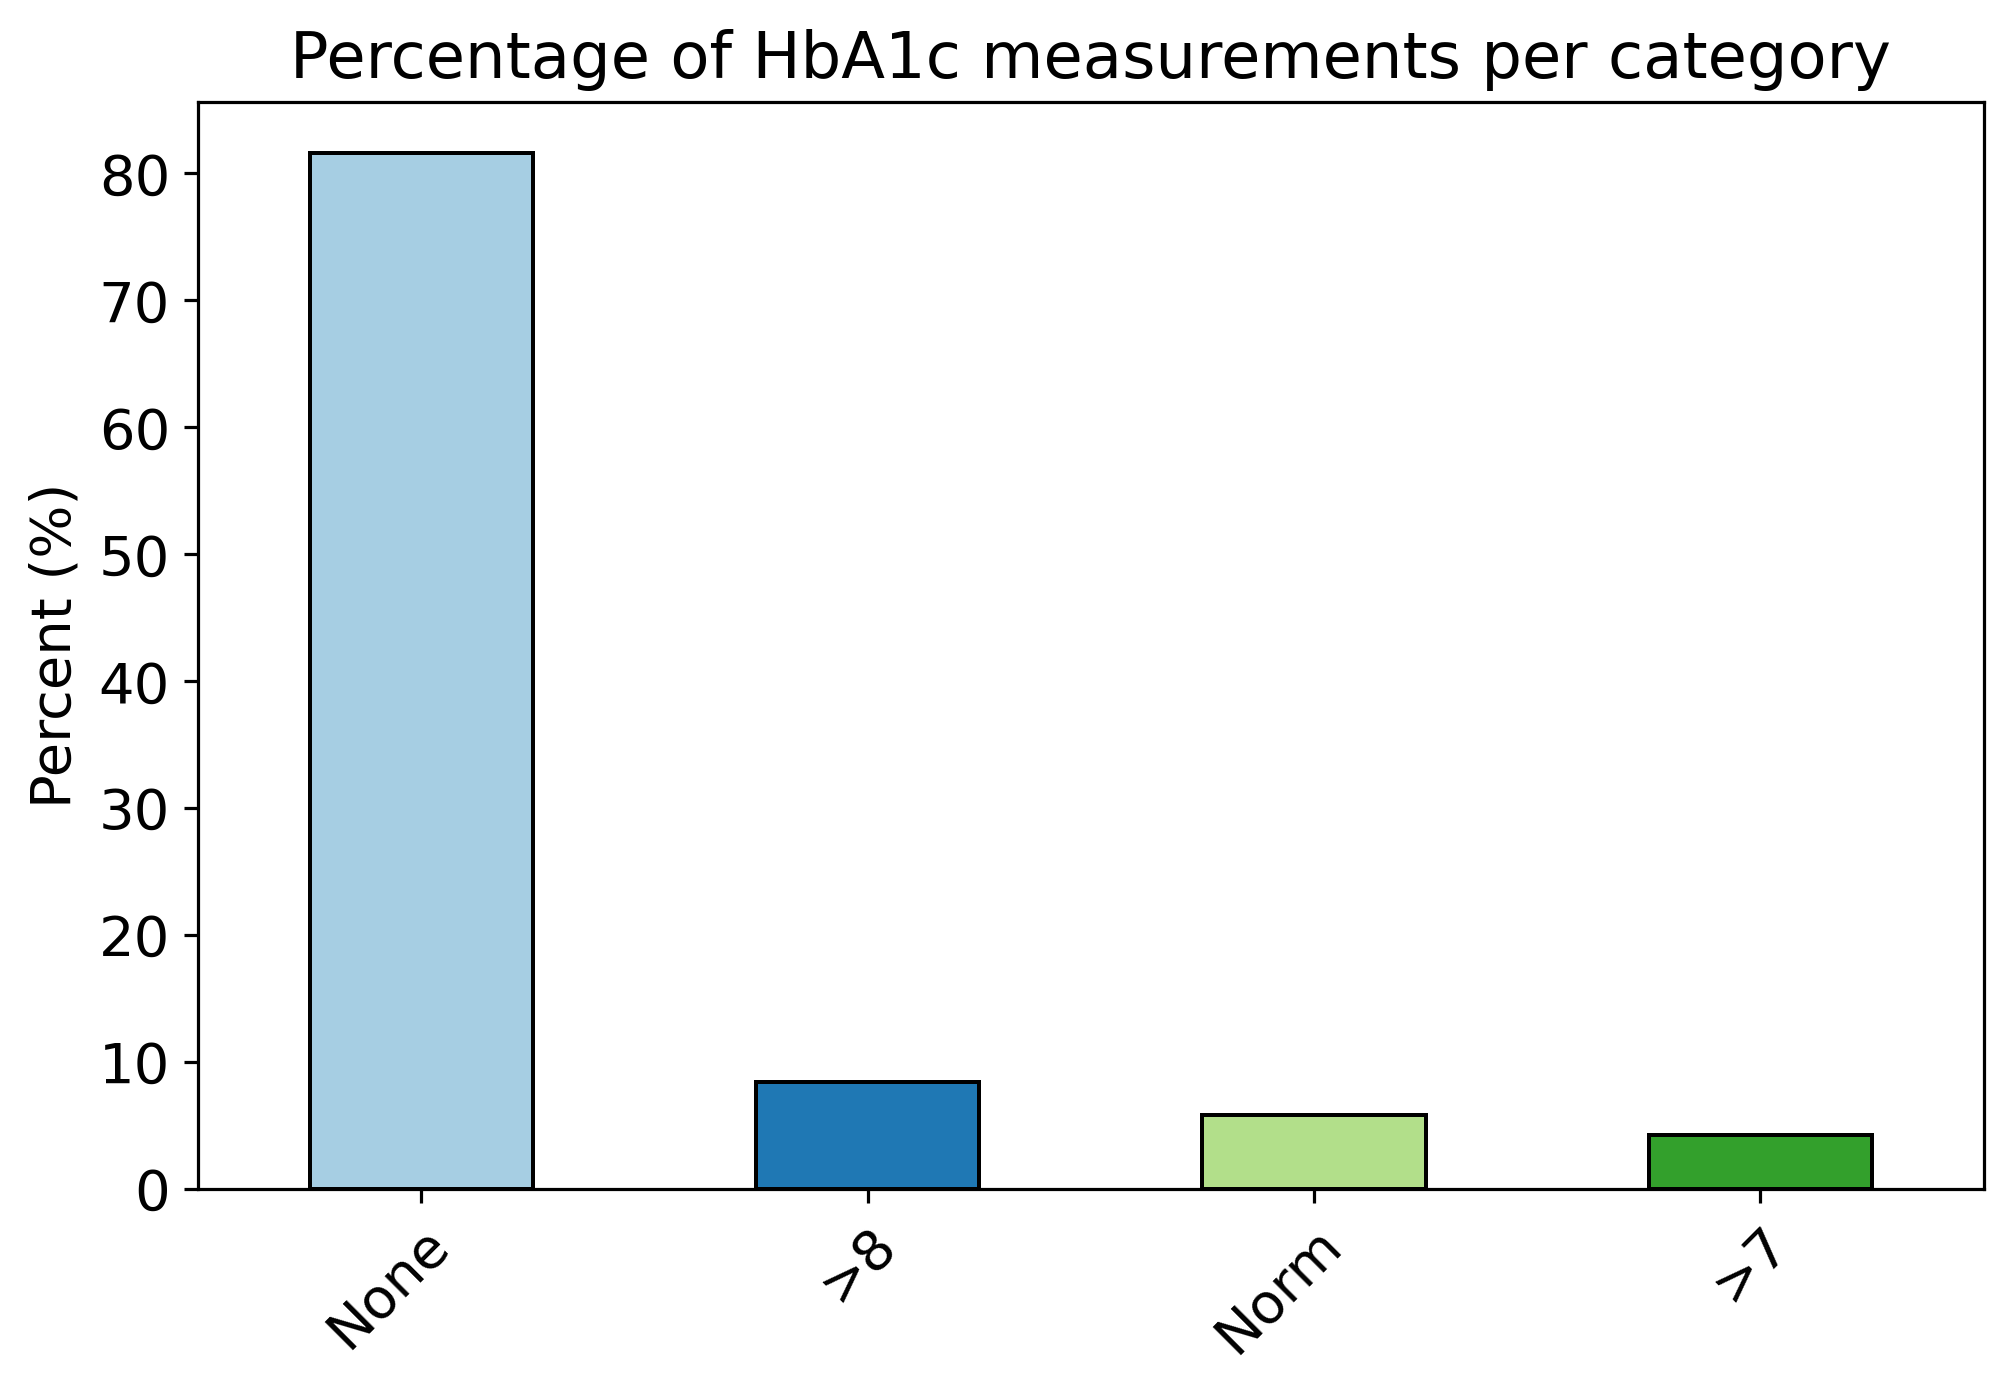
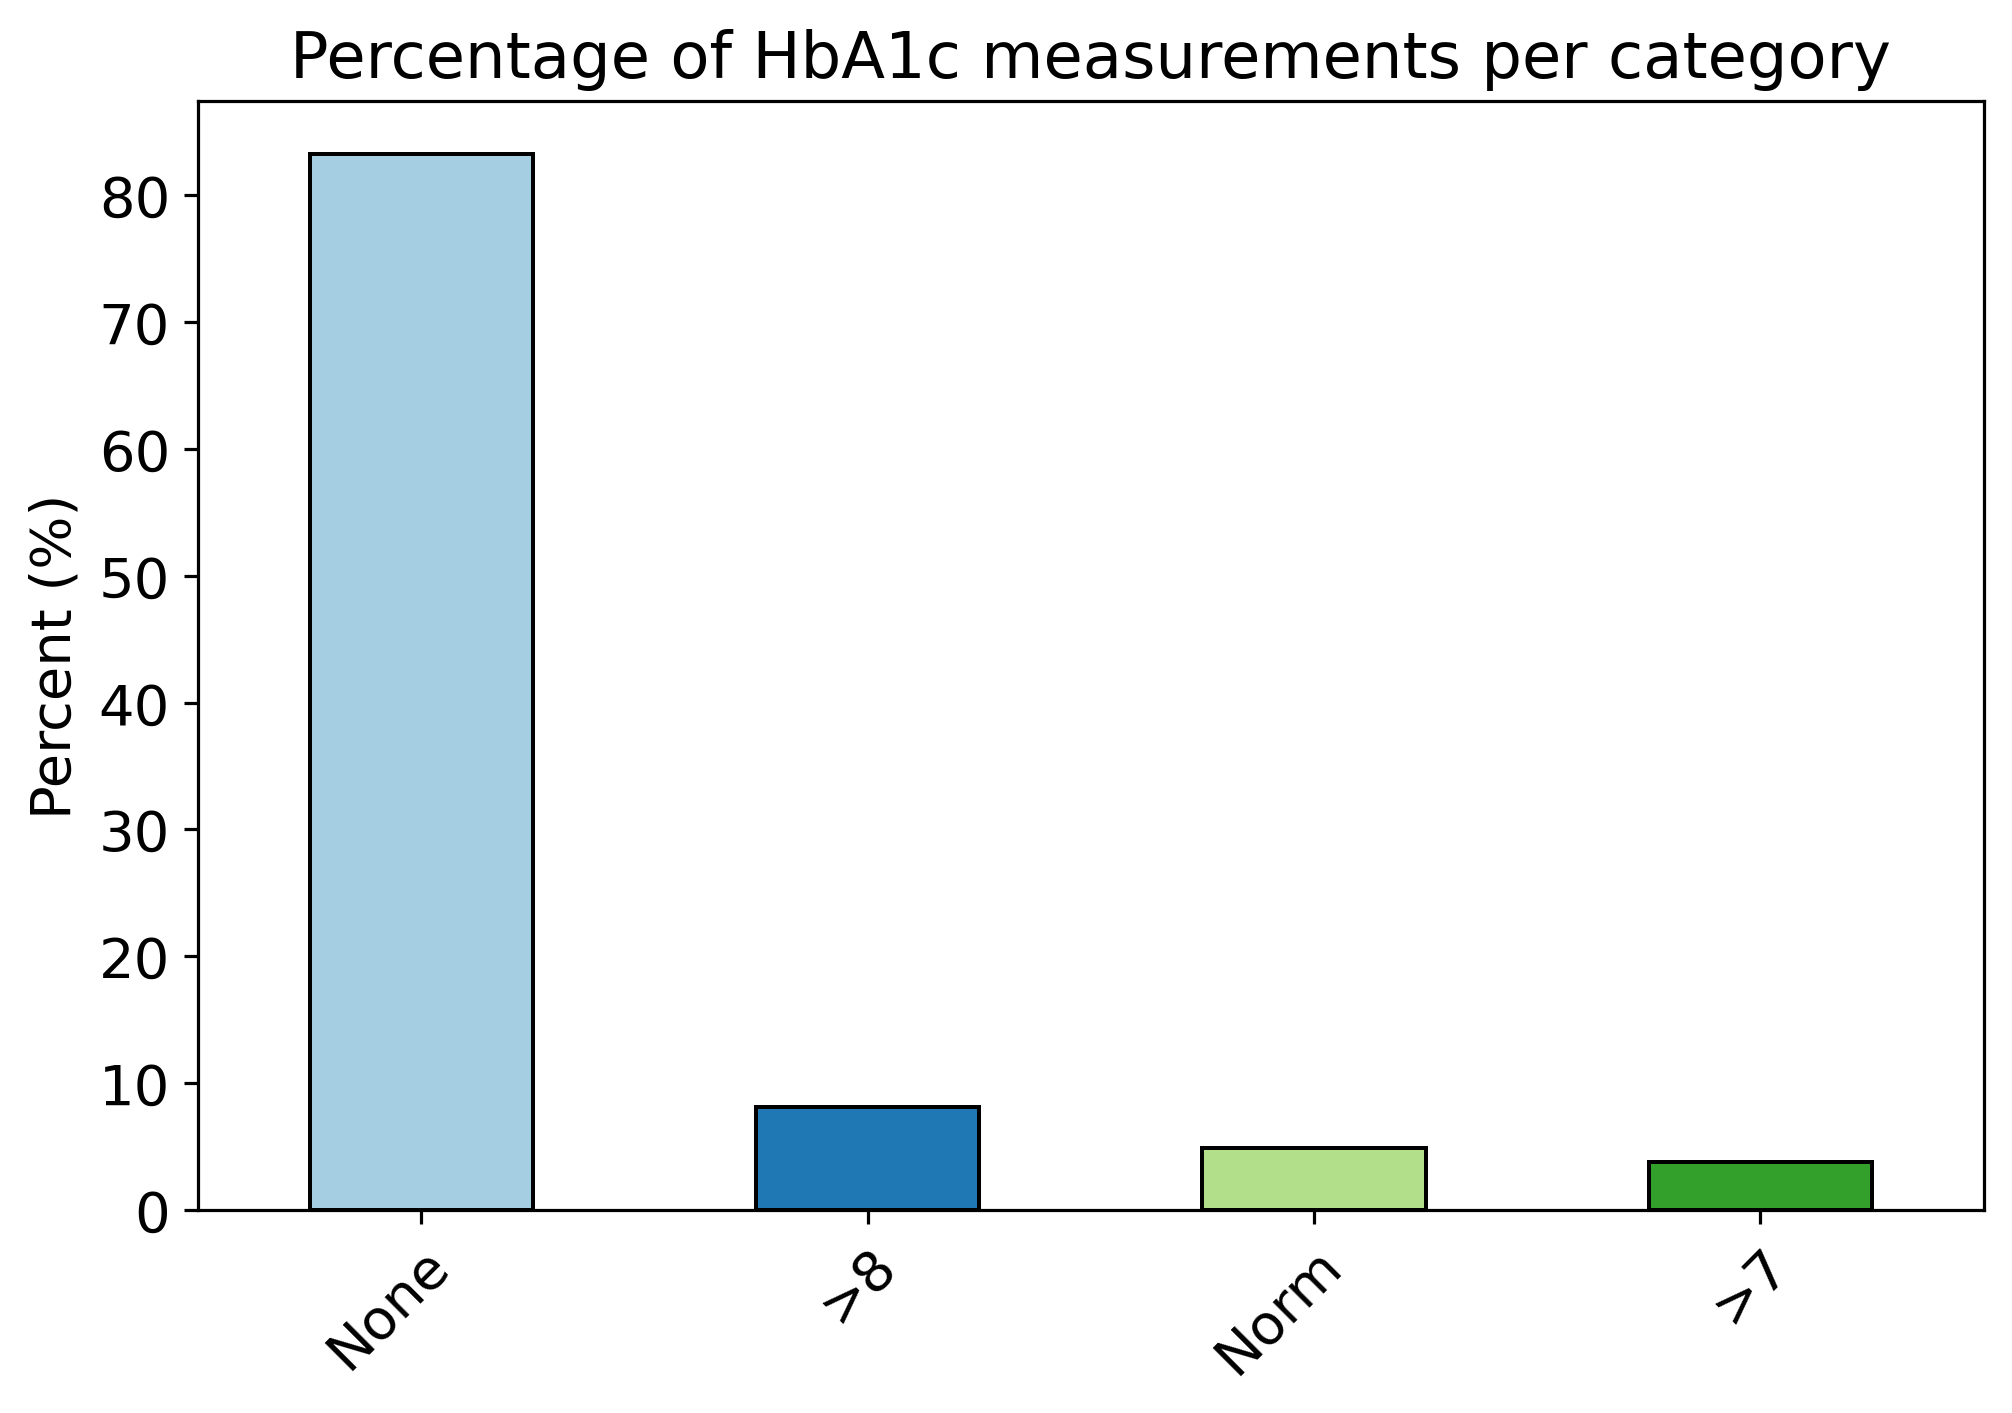
Percentage of HbA1c measurements per category

diff --git a/exploratory_data_analysis/a1c_result.py b/exploratory_data_analysis/a1c_result.py
@@ -1,0 +1,23 @@
+#! /usr/bin/env python
+
+import pandas as pd
+import matplotlib.pyplot as plt
+import os
+from pathlib import Path
+
+home = os.environ['HOME']
+
+work_dir = Path(home) / 'Programming/Python/machine-learning-exercises/kaggle-notebooks/diabetes-in-130-US-hospitals/'
+data_file = work_dir / 'data/diabetic_data.csv'
+
+df = pd.read_csv(data_file, na_values='?', low_memory=False)
+obj_cols = df.select_dtypes('object').columns
+df[obj_cols] = df[obj_cols].astype('category')
+
+a1c_result_df = df['A1Cresult'].value_counts(dropna=False)/df.shape[0]*100
+ax = a1c_result_df.plot(kind='bar', color=plt.cm.Paired.colors, figsize=(8, 5), edgecolor='k')
+plt.setp(ax.get_xticklabels(), ha="right", rotation_mode="anchor", rotation=45, fontsize=14)
+plt.setp(ax.get_yticklabels(), fontsize=14)
+ax.set_ylabel('Percent (%)', fontsize=14)
+ax.set_title('Percentage of HbA1c measurements per category', fontsize=16)
+plt.savefig('plots/a1c_result.png', dpi=288, bbox_inches='tight')
